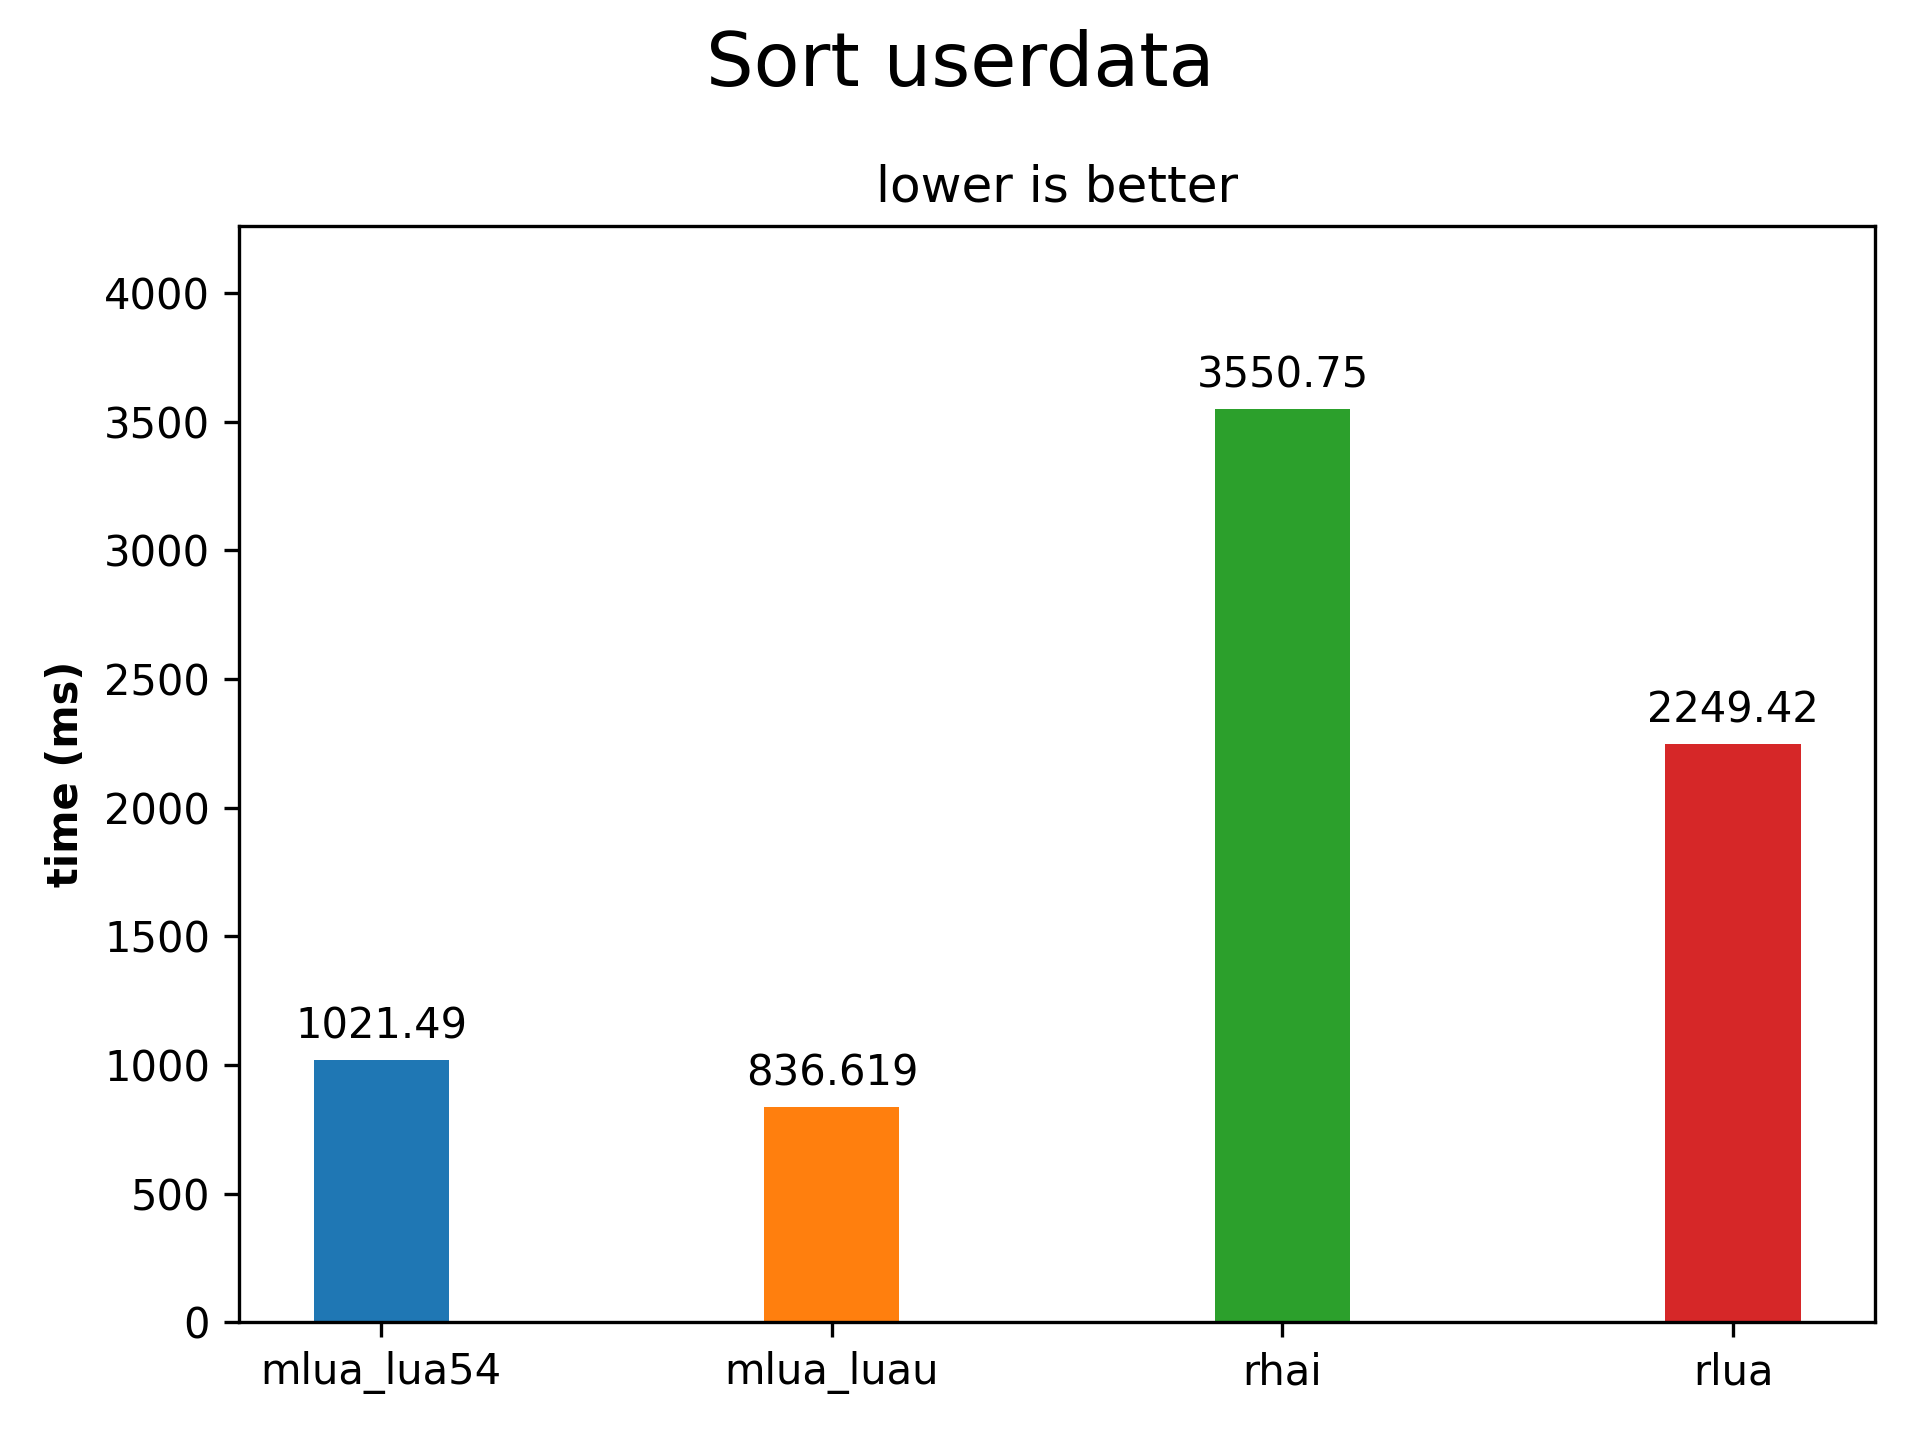
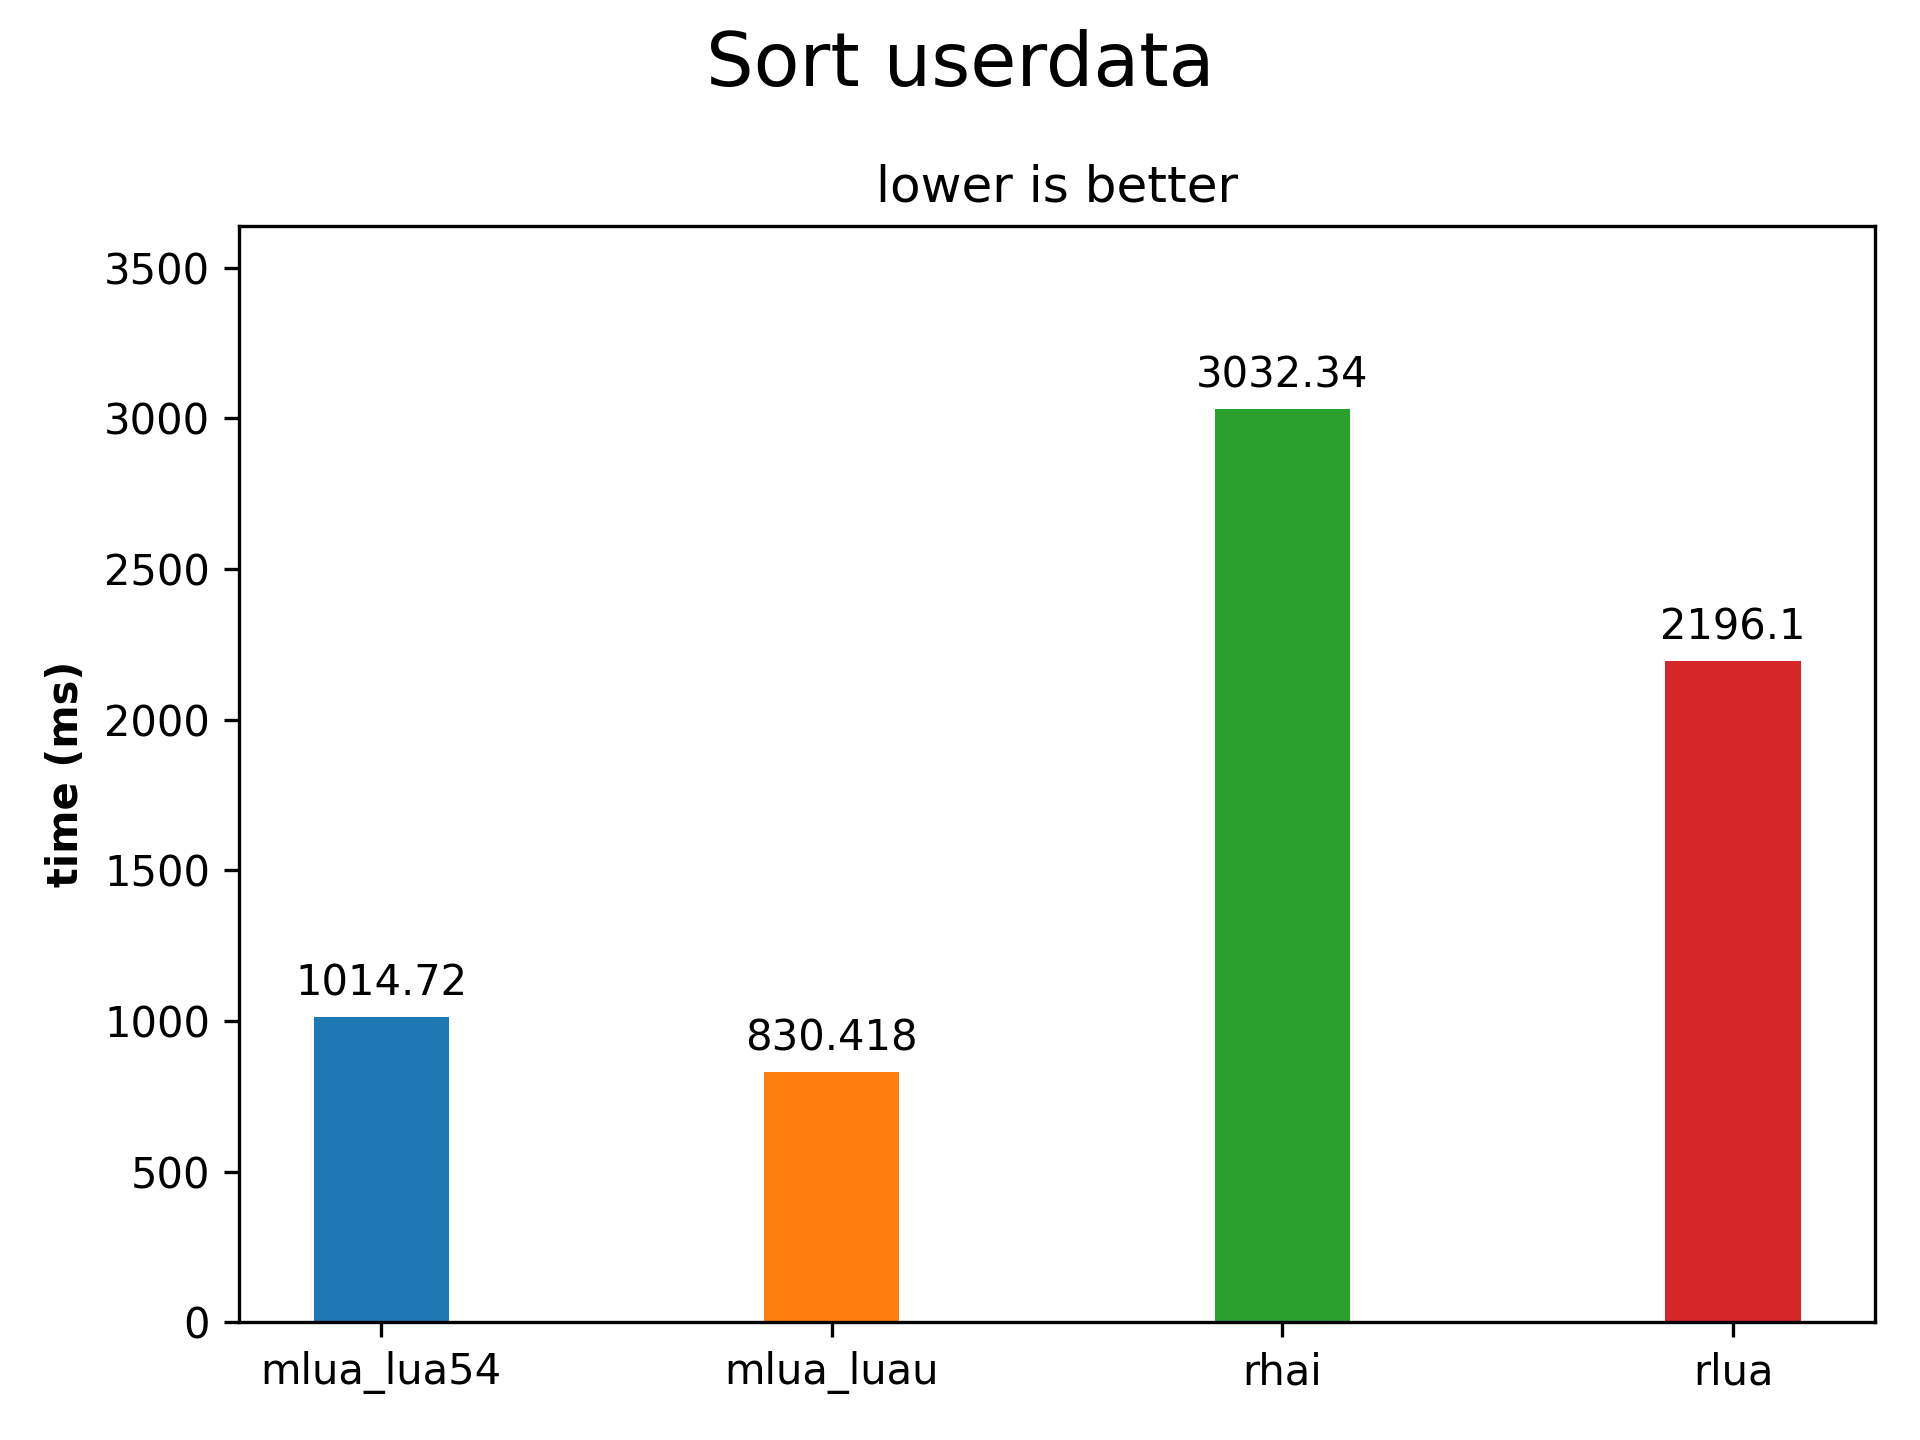
Update results Add `lto = true` and `codegen-units = 1` to the bench profile

diff --git a/benches/rlua.rs b/benches/rlua.rs
@@ -4,11 +4,11 @@ use criterion::{criterion_group, criterion_main, Criterion};
 use rlua::{Lua, MetaMethod, UserData, UserDataMethods};
 
 #[derive(Clone, Default, PartialEq, Eq, PartialOrd, Ord)]
-struct RustString(Arc<String>);
+struct RustData(Arc<String>);
 
-impl UserData for RustString {
+impl UserData for RustData {
     fn add_methods<'lua, M: UserDataMethods<'lua, Self>>(methods: &mut M) {
-        methods.add_function("new", |_, s: String| Ok(RustString(Arc::new(s))));
+        methods.add_function("new", |_, s: String| Ok(RustData(Arc::new(s))));
         methods.add_meta_method(MetaMethod::Lt, |_, this, rhs: Self| Ok(this < &rhs));
         methods.add_meta_method(MetaMethod::ToString, |_, this, ()| Ok(this.0.to_string()));
     }
@@ -21,8 +21,8 @@ fn benchmark(c: &mut Criterion) {
         let globals = ctx.globals();
         globals
             .set(
-                "RustString",
-                ctx.create_userdata(RustString::default()).unwrap(),
+                "RustData",
+                ctx.create_userdata(RustData::default()).unwrap(),
             )
             .unwrap();
         globals

diff --git a/bench.py b/bench.py
@@ -7,14 +7,16 @@ import matplotlib.pyplot as plt
 
 def run_benchmark(name):
     print(f"Running benchmark for {name}")
-    proc = subprocess.Popen(
+    proc = subprocess.run(
         f"cargo criterion --bench {name} --message-format json --features {name}",
         shell=True,
         stdout=subprocess.PIPE,
         stderr=subprocess.DEVNULL,
+        text=True,
+        check=True,
     )
     res = []
-    for line in proc.stdout.readlines():
+    for line in proc.stdout.splitlines():
         x = json.loads(line)
         if "id" in x:
             res.append(x)

diff --git a/README.md b/README.md
@@ -8,6 +8,10 @@ The project goal is to benchmark most popular embedded scripting languages for R
 
 The benchmark is designed to cover not only the performance of code evaluation but interoperability with Rust too.
 
+## Getting your own results
+
+Simply run the `bench.py` script to generate images. It requires `cargo criterion` and `python3-matplotlib` package installed.
+
 ## Environment
 
 |       |                               |
